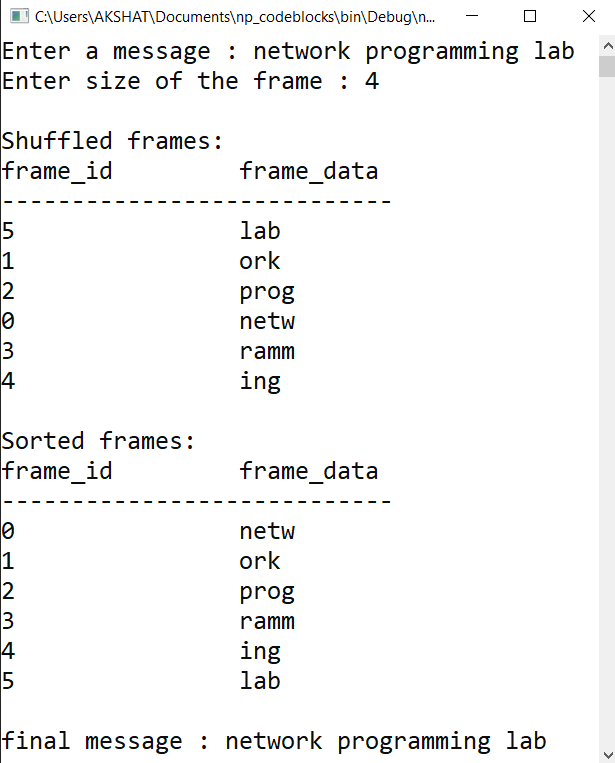
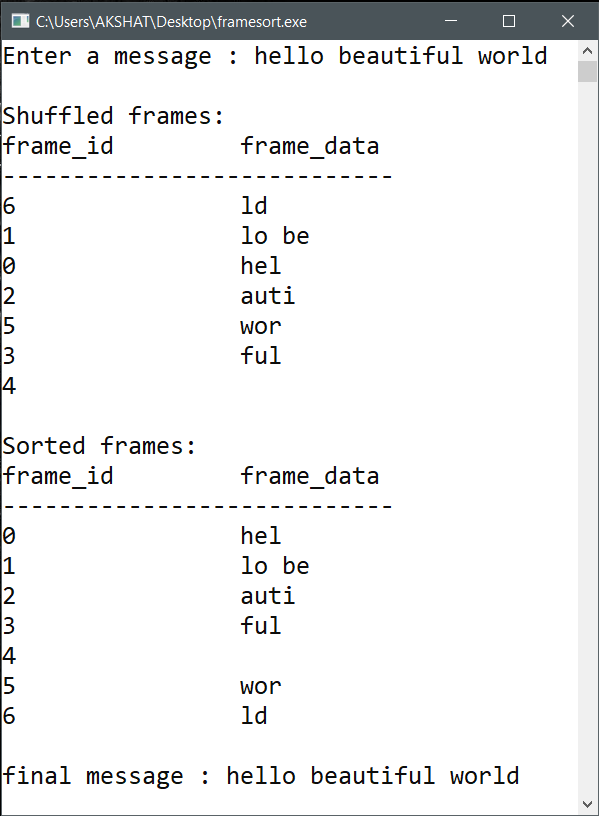
changed code for variable size frame

Changed region(s): [[0.0, 0.0, 1.0, 1.0], [0.3907, 0.1507, 0.6311, 0.5125], [0.3907, 0.5727, 0.6311, 0.9043]]

diff --git a/A2 (Frame Sort)/framesort.c b/A2 (Frame Sort)/framesort.c
@@ -52,7 +52,7 @@ void sortFrames(frame f[MAX], int n)
 int main()
 {
     frame f[MAX];
-    int n;    // no of frames
+    int n = -1;    // no of frames
     int fsize; // size of frame
 
     char msg[MAX];
@@ -63,21 +63,19 @@ int main()
     fgets(msg , MAX, stdin);
     msg[strlen(msg)-1] = '\0'; // to remove '\n' from string
 
-    printf("Enter size of the frame : ");
-    scanf("%d" , &fsize);
-
-    n = strlen(msg) / fsize ;   // find the number of frames
-
+    srand(time(NULL));
     // Divide the message into frames
-    for(i=0 ; msg[i] != '\0' ; i++)
+    for(i=0 ; m < strlen(msg) ; i++)
     {
         f[i].id = i;
 
-        for(j=0 ; j<fsize && m <= strlen(msg); j++)
+        n++; // count number of frames
+        fsize = rand()%5+1; // Frame size in range [1,5]
+
+        for(j=0 ; j<fsize && m < strlen(msg); j++)
         {
             f[i].data[j] = msg[m++];
         }
-
     }
 
     shuffleFrame(f, n);
@@ -111,28 +109,25 @@ int main()
 
 
 /**************** OUTPUT-1 ************************
-Enter a message : network programming lab
-Enter size of the frame : 4
+Enter a message : hello beautiful world
 
 Shuffled frames:
 frame_id         frame_data
 ----------------------------
-5                lab
-1                ork
-2                prog
-0                netw
-3                ramm
-4                ing
+0                hello
+1                 beau
+2                tiful
+3                 worl
+4                d
 
 Sorted frames:
 frame_id         frame_data
 ----------------------------
-0                netw
-1                ork
-2                prog
-3                ramm
-4                ing
-5                lab
+0                hello
+1                 beau
+2                tiful
+3                 worl
+4                d
 
-final message : network programming lab
+final message : hello beautiful world
 ************************************************/
